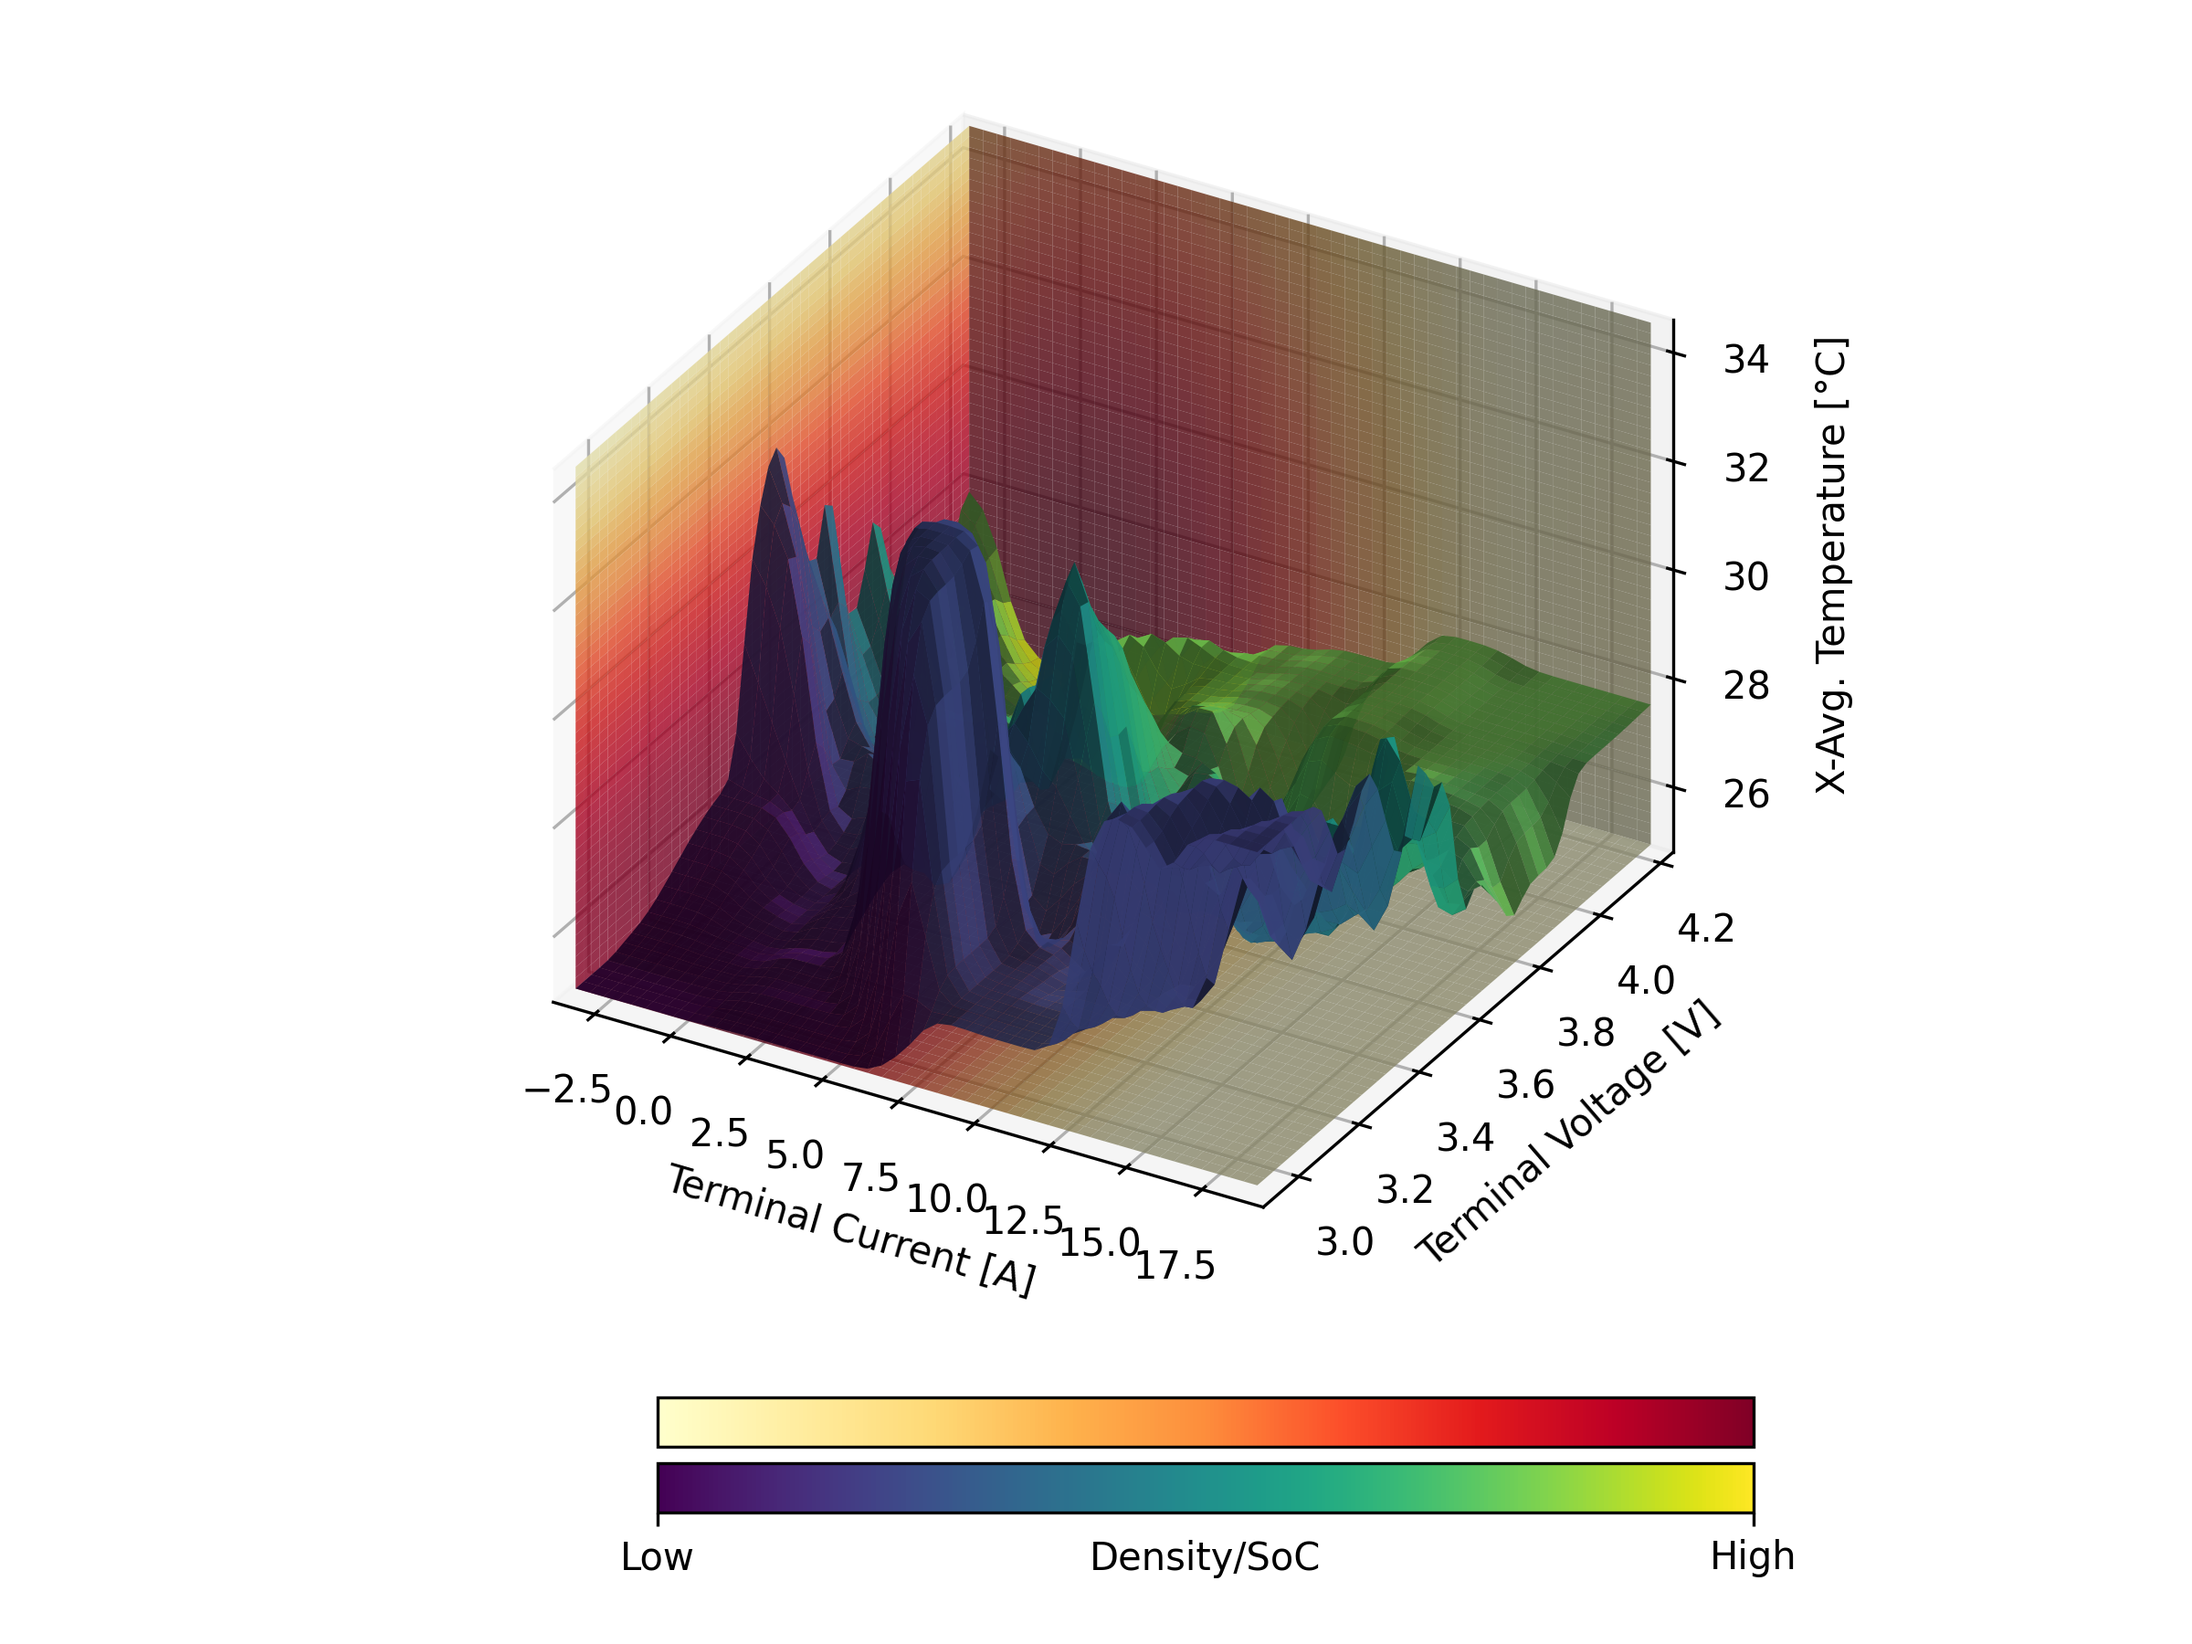
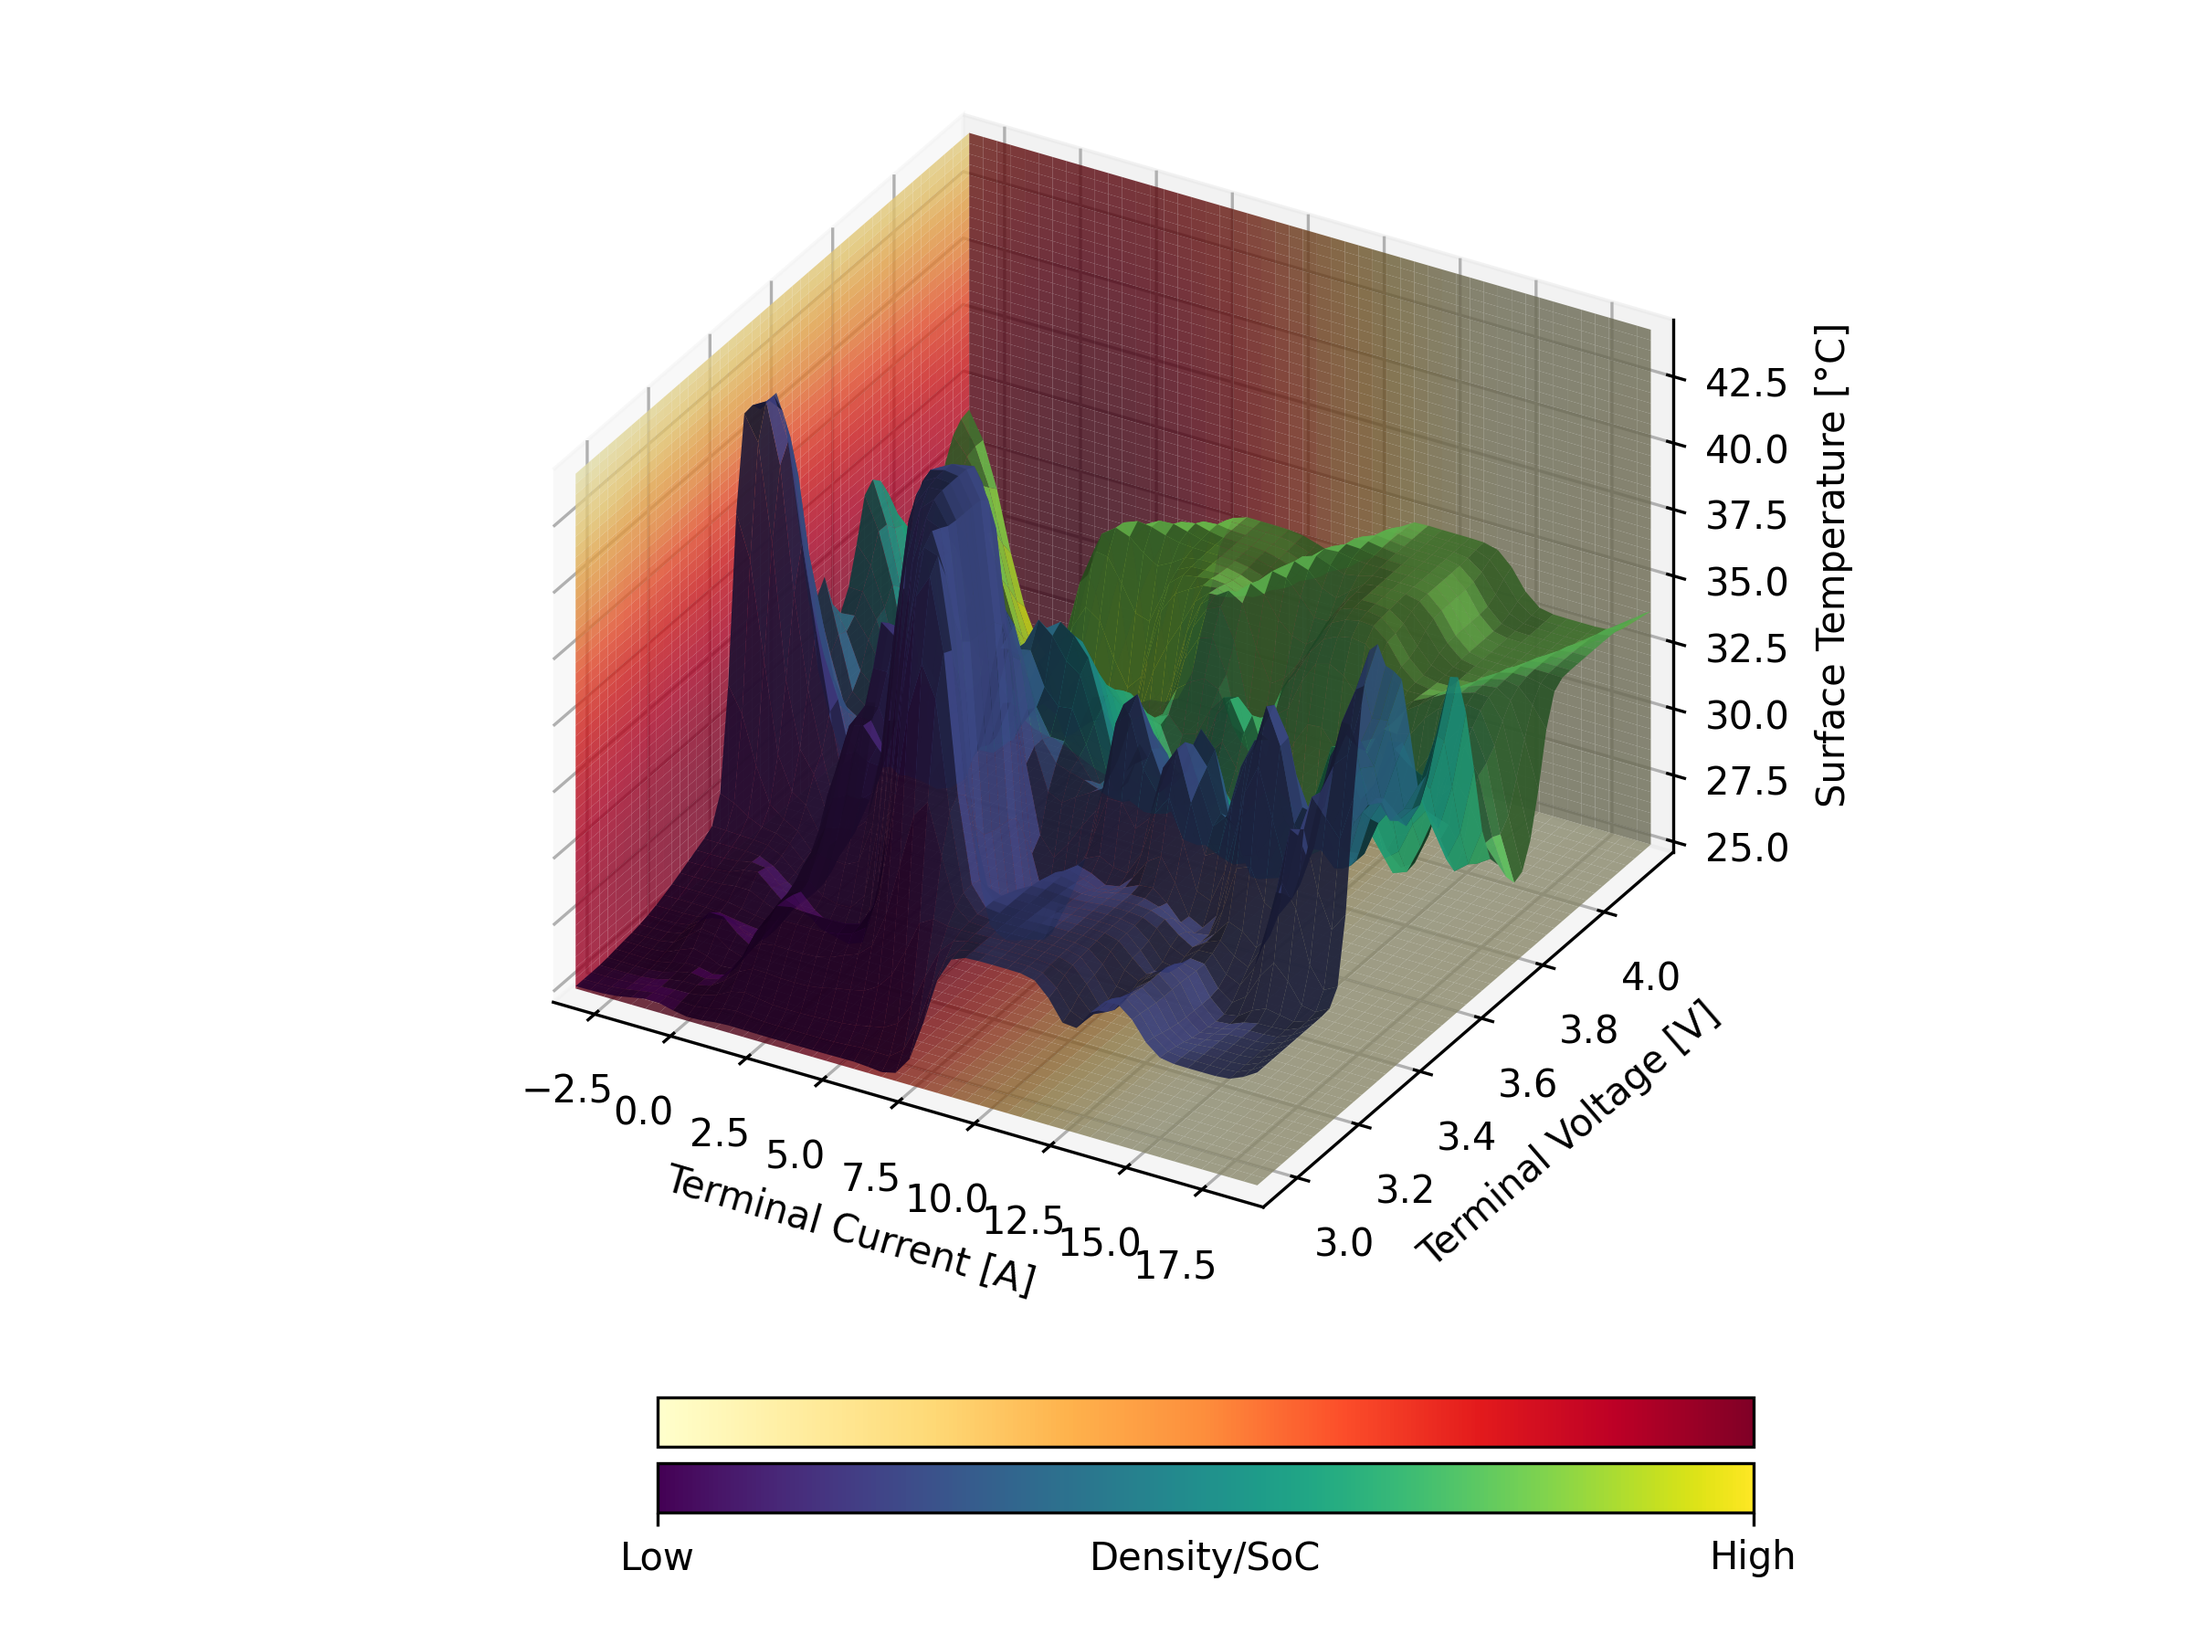
update input images for readme

diff --git a/util/plot_dfn.py b/util/plot_dfn.py
@@ -90,7 +90,10 @@ def plot_profiles_3d(inputs, save=False):
     )
     grid_soc_smth = gaussian_filter(grid_soc, sigma=sigma)
     # grid_soc_smth =  np.log(grid_soc_smth + 1e-5)
-    face_colors_3d = viridis_inv((grid_soc_smth - grid_soc_smth.min()) / (grid_soc_smth.max() - grid_soc_smth.min()))
+    face_colors_3d = viridis_inv(
+        (grid_soc_smth - grid_soc_smth.min())
+        / (grid_soc_smth.max() - grid_soc_smth.min())
+    )
 
     # face_colors_3d = viridis_inv(norm_soc(grid_z_smth))
 
@@ -150,7 +153,7 @@ def plot_profiles_3d(inputs, save=False):
 
     ax.set_xlabel("Terminal Current [A]")
     ax.set_ylabel("Terminal Voltage [V]")
-    ax.set_zlabel("X-Avg. Temperature [°C]")
+    ax.set_zlabel("Surface Temperature [°C]")
     # ax.set_xlim([current.min(), current.max()])
     # ax.set_ylim([voltage.min(), voltage.max()])
     # ax.set_zlim([temperature.min(), temperature.max()])
@@ -164,7 +167,15 @@ def plot_profiles_3d(inputs, save=False):
     norm = Normalize(vmin=0, vmax=1)
     # Add colorbars for both colormaps
     sm = plt.cm.ScalarMappable(cmap=mpl.colormaps["viridis"], norm=norm)
-    cbar_3d = fig.colorbar( sm, ax=ax, shrink=0.5, aspect=15, pad=-0.1, cax=cbar_ax_3d, orientation="horizontal",)
+    cbar_3d = fig.colorbar(
+        sm,
+        ax=ax,
+        shrink=0.5,
+        aspect=15,
+        pad=-0.1,
+        cax=cbar_ax_3d,
+        orientation="horizontal",
+    )
     # creating ScalarMappable
     sm = plt.cm.ScalarMappable(cmap=YlOrRd, norm=norm)
     cbar_2d = fig.colorbar(
@@ -192,178 +203,126 @@ def plot_profiles_3d(inputs, save=False):
     plt.show()
 
 
-
 if __name__ == "__main__":
-    # ####################################################
     import os
     import sys
 
+    sys.path.append(os.path.abspath(".."))
     import matplotlib as mpl
     import matplotlib.pyplot as plt
     import numpy as np
     import pybamm
     from matplotlib.colors import Normalize
-    from matplotlib.transforms import Bbox
+    from model.dfn import Lumped, LumpedSurface
     from scipy.interpolate import griddata
     from scipy.ndimage import gaussian_filter
     from scipy.stats import gaussian_kde
-    # Load profiles and preprocess
 
-    # sys.path.append(os.path.abspath(".."))
-    os.chdir('..')
-
+    os.chdir("..")
     capa = 5
-
-    # 'Discharge capacity [A.h]'
-    #
-    # 'X-averaged cell temperature [C]'
-    # 'Volume-averaged cell temperature [C]'
-    # 'Cell temperature [C]'
-    #
-    # 'Positive electrode open-circuit potential [V]'
-    # 'Negative electrode open-circuit potential [V]'
-    # 'X-averaged negative electrode open-circuit potential [V]'
-    # 'X-averaged positive electrode open-circuit potential [V]'
-
     outputs = [
         "Current [A]",
         "Terminal voltage [V]",
-        "X-averaged cell temperature [C]",
+        "Volume-averaged surface temperature [C]",
         "Discharge capacity [A.h]",
+        # "Battery open-circuit voltage [V]"
     ]
     profile_0 = pybamm.load("data/profile_0.pkl")
     profile_1 = pybamm.load("data/profile_1.pkl")
     profile_2 = pybamm.load("data/profile_2.pkl")
-    # Adjust the discharge capacity for profile_0
-    profile_0 = {key: (profile_0[key].entries / capa if key == outputs[-1] else profile_0[key].entries) for key in outputs}
-    profile_1 = {key: (profile_1[key].entries / capa if key == outputs[-1] else profile_1[key].entries) for key in outputs}
-    profile_2 = {key: (profile_2[key].entries / capa if key == outputs[-1] else profile_2[key].entries) for key in outputs}
+
+    profile_0 = {
+        key: (
+            profile_0[key].entries / capa
+            if key == outputs[-1]
+            else profile_0[key].entries
+        )
+        for key in outputs
+    }
+    profile_1 = {
+        key: (
+            profile_1[key].entries / capa
+            if key == outputs[-1]
+            else profile_1[key].entries
+        )
+        for key in outputs
+    }
+    profile_2 = {
+        key: (
+            profile_2[key].entries / capa
+            if key == outputs[-1]
+            else profile_2[key].entries
+        )
+        for key in outputs
+    }
     profiles = [profile_0, profile_1, profile_2]
 
     # Combine profiles into a single input array with shape (x, y, 4) where the last dimension is [Current, Voltage, Temperature, SoC]
     input_data = np.stack(
         [
-            np.column_stack([prof['Current [A]'], prof['Terminal voltage [V]'], prof['X-averaged cell temperature [C]'], prof['Discharge capacity [A.h]']])
+            np.column_stack(
+                [
+                    prof["Current [A]"],
+                    prof["Terminal voltage [V]"],
+                    prof["Volume-averaged surface temperature [C]"],
+                    prof["Discharge capacity [A.h]"],
+                ]
+            )
             for prof in profiles
         ],
-        axis=1
+        axis=1,
     )
     plot_profiles_3d(input_data, save=True)
 
-    # parameter_values = pybamm.ParameterValues("Chen2020")
-    # options = {"cell geometry": "arbitrary", "thermal": "lumped"}
-    # model = pybamm.lithium_ion.DFN(options)
-    # initialize = pybamm.Experiment(
-    #     [
-    #         (
-    #             "Discharge at 1C until 2.5V",
-    #             "Rest for 360 second",
-    #             "Charge at 1C until 4.2V",
-    #             "Hold at 4.2V until C/20",
-    #         )
-    #     ]
-    #     * 5,
-    # )
-    # sim = pybamm.Simulation(
-    #     model, parameter_values=parameter_values, experiment=initialize
-    # )
-    # solution = sim.solve()
-    # solution.save("model_init.pkl")
-
-    # specs = BatteryDatasheet()
-    # parameter_values = pybamm.ParameterValues("Chen2020")
-    # options = {"cell geometry": "arbitrary", "thermal": "lumped"}
-    # model = pybamm.lithium_ion.DFN(options)
-    # curr = np.load("data/current/test_dfn.npy", allow_pickle=True)[1, :239_000]
-    # t = np.arange(0, curr.shape[0], specs.dt)
-    # cycle = np.column_stack([t, curr])
-    # # model_init = pybamm.load("model_init.pkl")
-    # # model.set_initial_conditions_from(model_init, inplace=True)
-    #
-    # # create interpolant
-    # current_interpolant = pybamm.Interpolant(cycle[:, 0], cycle[:, 1], pybamm.t)
-    # # set drive cycle
-    # parameter_values["Current function [A]"] = current_interpolant
-    #
-    # # experiment = pybamm.Experiment([pybamm.step.current(cycle)])
-    # # TODO: TQMD for simulation
-    # sim = pybamm.Simulation(
-    #     model,
-    #     parameter_values=parameter_values,
-    #     solver=pybamm.CasadiSolver(
-    #         mode="fast", extra_options_setup={"max_step_size": 1}
-    #     ),  # experiment=experiment
-    # )
-    # solution = sim.solve()
-    # solution.save("profile_1.pkl")
-    #
-    # outputs = [
-    #     "Current [A]",
-    #     "Terminal voltage [V]",
-    #     "Discharge capacity [A.h]",
-    #     "X-averaged cell temperature [C]",
-    # ]
-    # pybamm.dynamic_plot(solution, outputs)
-
-    capa = 5
-    outputs = [
-        "Current [A]",
-        "Terminal voltage [V]",
-        "X-averaged cell temperature [C]",
-        "Discharge capacity [A.h]",
-    ]
-    profile_0 = pybamm.load("data/profile_0.pkl")
-    profile_1 = pybamm.load("data/profile_1.pkl")
-    profile_2 = pybamm.load("data/profile_2.pkl")
-    # Adjust the discharge capacity for profile_0
-    profile_0 = {key: (profile_0[key].entries / capa if key == outputs[-1] else profile_0[key].entries) for key in outputs}
-    profile_1 = {key: (profile_1[key].entries / capa if key == outputs[-1] else profile_1[key].entries) for key in outputs}
-    profile_2 = {key: (profile_2[key].entries / capa if key == outputs[-1] else profile_2[key].entries) for key in outputs}
-    # Combine into a list of profiles
-    profiles = [profile_0, profile_1, profile_2]
     # Define slice range for the second column
     slice_range = slice(44_500, 47_500)
     # Create a 4x2 plot
-    fig, axs = plt.subplots(4, 2, figsize=(10, 14), sharex='col', sharey='row')
+    fig, axs = plt.subplots(4, 2, figsize=(10, 14), sharex="col", sharey="row")
     # Define y-axis labels
-    y_labels = ["SoC [·]", "X-Avg. Temperature [°C]", "Terminal Voltage [V]", "Terminal Current [A]"]
+    y_labels = [
+        "SoC [·]",
+        "Surface Temperature [°C]",
+        "Terminal Voltage [V]",
+        "Terminal Current [A]",
+    ]
     # Define colors and linestyles for the profiles
-    colors = ['b', 'g', 'r']
-    linestyles = ['-', '-', '-']
+    colors = ["b", "g", "r"]
+    linestyles = ["-", "-", "-"]
     # Plot the profiles in the first column and the sliced profiles in the second column
     time = np.linspace(0, profile_0[outputs[0]].size / 3600, profile_0[outputs[0]].size)
     for row, key in enumerate(reversed(outputs)):  # reversed to match bottom to top
         # Iterate over profiles for the first column
         for idx, prof in enumerate(profiles):
-            axs[row, 0].plot(time, prof[key], label=f'Profile {idx}', color=colors[idx], linestyle=linestyles[idx])
+            axs[row, 0].plot(
+                time,
+                prof[key],
+                label=f"Profile {idx}",
+                color=colors[idx],
+                linestyle=linestyles[idx],
+            )
         axs[row, 0].set_ylabel(y_labels[row])
         if row == 3:
-            axs[row, 0].set_xlabel('Time [h]')
+            axs[row, 0].set_xlabel("Time [h]")
         if row == 0:
             # axs[row, 0].legend()
-            axs[row, 0].set_title('Full Profiles')
+            axs[row, 0].set_title("Full Profiles")
         # Iterate over profiles for the second column (sliced range)
         for idx, prof in enumerate(profiles):
             slice_time = time[slice_range]
             # slice_time = np.arange(prof[key].size)[slice_range]
-            axs[row, 1].plot(slice_time, prof[key][slice_range], label=f'Profile {idx}', color=colors[idx], linestyle=linestyles[idx])
+            axs[row, 1].plot(
+                slice_time,
+                prof[key][slice_range],
+                label=f"Profile {idx}",
+                color=colors[idx],
+                linestyle=linestyles[idx],
+            )
         if row == 3:
-            axs[row, 1].set_xlabel('Time [h]')
+            axs[row, 1].set_xlabel("Time [h]")
         if row == 0:
             # axs[row, 1].legend()
-            axs[row, 1].set_title('Cropped Profiles')
+            axs[row, 1].set_title("Cropped Profiles")
     # Save the figure with appropriate dimensions and dpi
     fig.tight_layout()
-    plt.savefig('doc/profiles_plot.png', dpi=300)
+    plt.savefig("doc/profiles_plot.png", dpi=300)
     plt.show()
-
-
-
-
-
-
-
-
-
-
-

diff --git a/model/dfn.py b/model/dfn.py
@@ -127,7 +127,7 @@ if __name__ == "__main__":
 
     os.chdir("..")
     specs = BatteryDatasheet()
-    curr = np.load("data/current/test_dfn.npy", allow_pickle=True)[0, :239_000]
+    curr = np.load("data/current/test_dfn.npy", allow_pickle=True)[1, :239_000]
     t = np.arange(0, curr.shape[0], specs.dt)
     cycle = np.column_stack([t, curr])
     current_interpolant = pybamm.Interpolant(cycle[:, 0], cycle[:, 1], pybamm.t)
@@ -151,7 +151,7 @@ if __name__ == "__main__":
     )
     solution = sim.solve()
 
-    solution.save("data/profile_0.pkl")
+    solution.save("data/profile_1.pkl")
 
     outputs = [
         "Current [A]",
